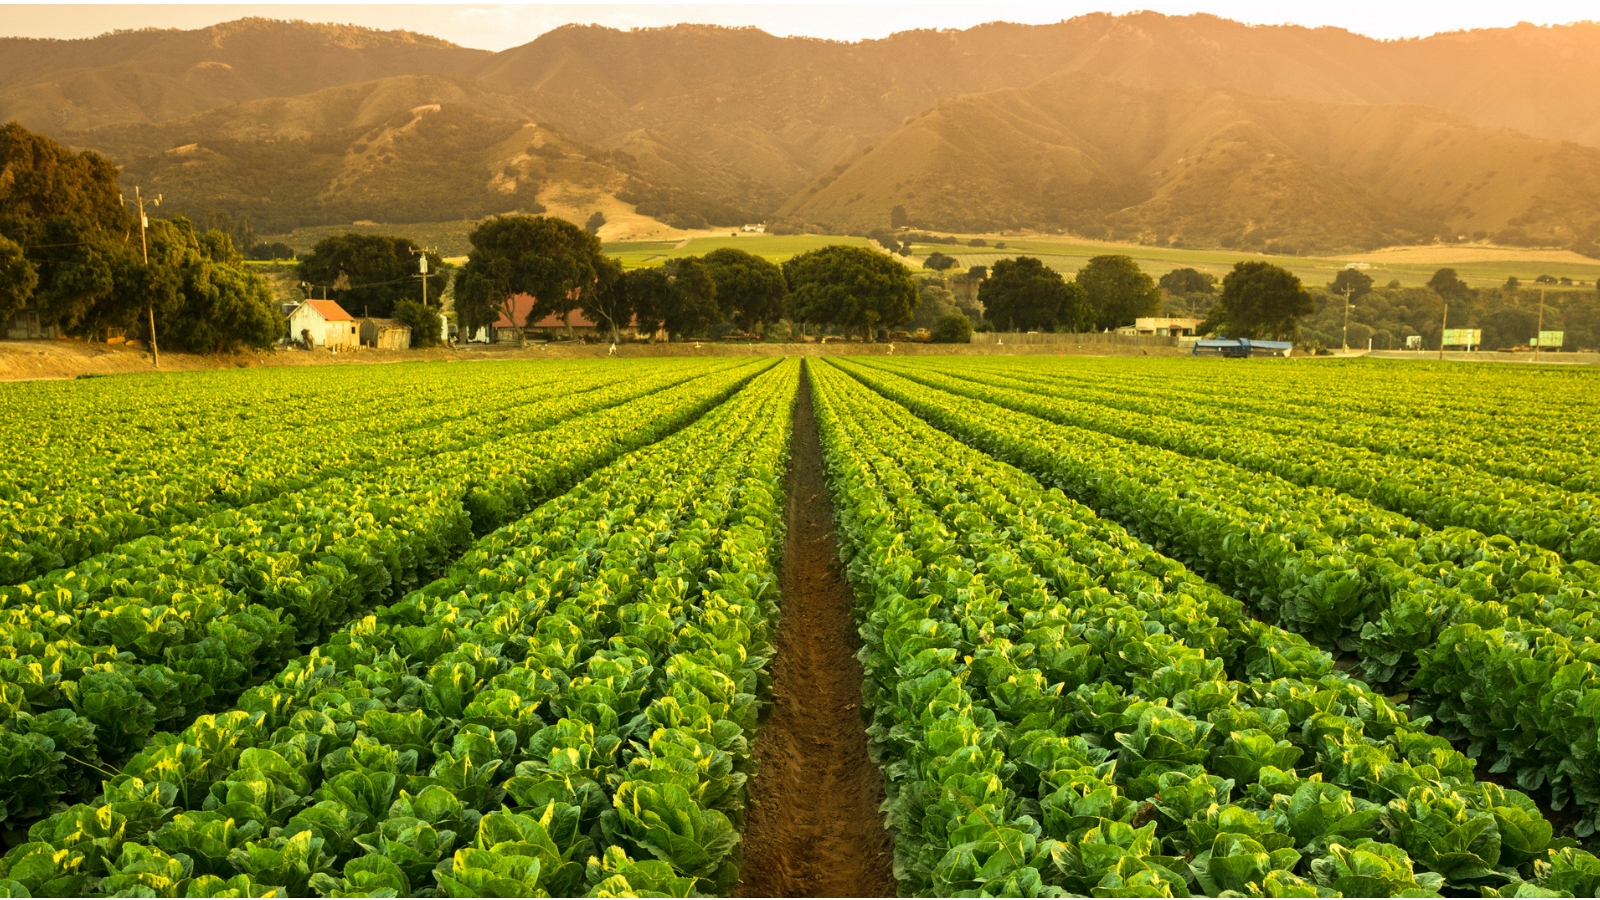
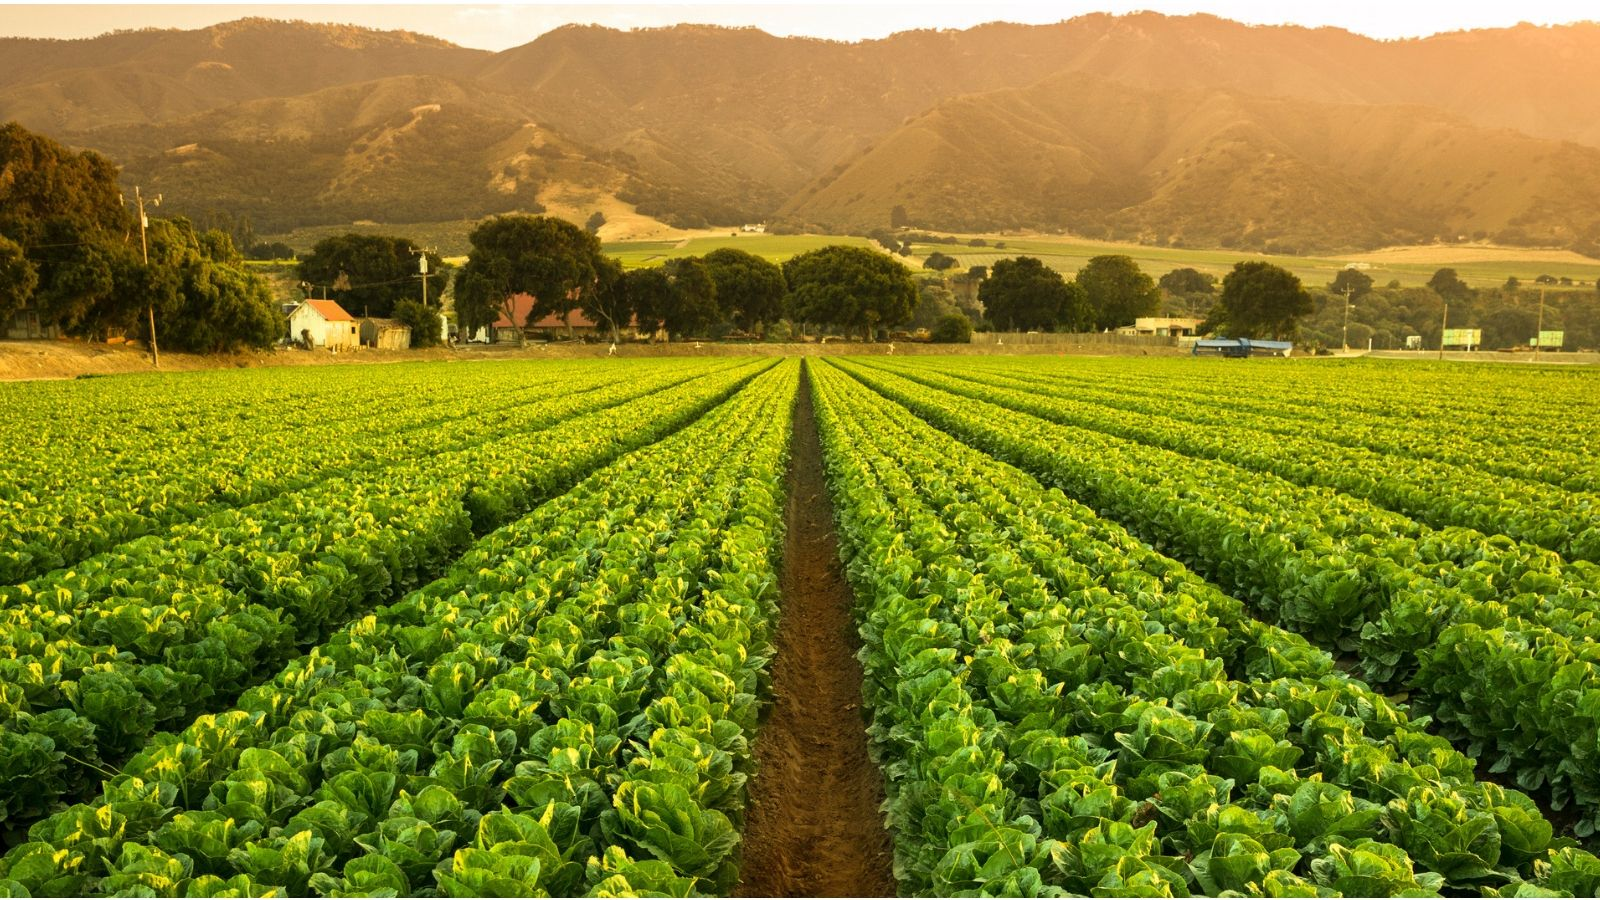
Main layouts fixed

Changed region(s): [[0.125, 0.9956, 0.1875, 1.0], [0.375, 0.9956, 0.4062, 1.0]]

diff --git a/public/css/styles.css b/public/css/styles.css
@@ -1,121 +1,158 @@
+/* General Reset */
 *,
 *::before,
 *::after {
   box-sizing: border-box;
+  margin: 0;
+  padding: 0;
 }
 
-
-/* Reset styles */
+/* Body Styling */
 body {
     font-family: Arial, sans-serif;
-    margin: 0;
-    padding: 0;
     background: white;
     display: flex;
     flex-direction: column;
     height: 100vh;
 }
 
-/* Container for hero + content */
+/* Main Container */
 .content-container {
-    flex: 1; /* Take remaining space */
+    flex: 1;
     display: flex;
-    flex-direction: column; /* Stack hero above content */
+    flex-direction: column;
 }
 
-/* Hero section */
+/* Hero Section */
 .hero {
     width: 100%;
     height: 350px;
     background-color: #037f45fa;
     display: flex;
     align-items: center;
-    justify-content: space-between; /* Pushes text left, image right */
+    justify-content: space-between;
     color: white;
-    padding-left: 20px; /* Ensures content does not overflow */
+    padding: 0 100px; /* Adds equal left-right spacing */
     text-align: left;
-    overflow: hidden; /* Ensures nothing spills outside */
+    overflow: hidden;
 }
 
-/* Image container on the right */
-.hero-image {
-    height: 100%; /* Ensures it fills the full height */
-    display: flex;
-    align-items: center;
-    justify-content: right; /* Pushes the image fully to the right */
-    margin: 0; /* Removes any unwanted spacing */
-    padding-right: 0; /* Ensures no padding issues */
-}
-
-/* Image styling */
-.hero-image img {
-    height: 100%; /* Ensures it fully fits within hero height */
-    width: auto; /* Keeps aspect ratio */
-    object-fit: cover;
-    display: block; /* Ensures no extra spacing issues */
-    max-width: 100%; /* Prevents overflow */
-}
-
-
-/* Hero content on the left */
+/* Hero Content */
 .hero-content {
-    max-width: 60%; /* Adjust as needed */
+    max-width: 60%;
     font-size: 24px;
 }
 
-/* Main content area */
-.content {
-    width:100%; /* Take remaining space */
-    padding-left: 20px;
-    background: white;
-    overflow-y: auto; /* Enable scrolling */
+/* Hero Image */
+.hero-image {
+    height: 100%;
+    display: flex;
+    align-items: center;
+    justify-content: flex-end;
 }
 
-/* Navbar */
+.hero-image img {
+    height: 100%;
+    width: 100%;  /* Ensures full width */
+    object-fit: cover; /* Ensures it covers the hero container */
+    display: block;
+}
+
+
+/* Main Content */
+.content {
+    width: 100%;
+    padding: 50px 100px; /* Ensures left and right spacing */
+}
+
+/* Navigation Bar */
 .navbar {
     display: flex;
-    justify-content: center; /* Center content horizontally */
-    align-items: center; /* Center content vertically */
-    background-color: white; /* Set background color */
-    width: 100%; /* Full width */
-    padding: 10px 0; /* Add padding for better spacing */
-    box-shadow: 0 2px 5px rgba(0, 0, 0, 0.1); /* Subtle shadow for a clean look */
+    justify-content: center;
+    align-items: center;
+    background-color: white;
+    width: 100%;
+    padding: 10px 0;
+    box-shadow: 0 2px 5px rgba(0, 0, 0, 0.1);
 }
 
-/* Navbar links */
 .navbar-nav {
     display: flex;
-    gap: 20px; /* Add spacing between items */
-    list-style: none; /* Remove default list styles */
-    margin: 0;
-    padding: 0;
-    width: 100%; /* Make it span the full width */
-    justify-content: space-around; /* Distribute links evenly */
+    gap: 20px;
+    list-style: none;
+    justify-content: space-around;
+    width: 100%;
 }
 
 .nav-item {
-    flex-grow: 1; /* Make items stretch evenly */
+    flex-grow: 1;
     text-align: center;
 }
 
 .nav-link {
-    text-decoration: none; /* Remove underline */
-    color: #000; /* Set text color */
+    text-decoration: none;
+    color: #000;
     font-weight: bold;
-    font-size: 16px; /* Adjust font size for better readability */
-    padding: 5px 10px; /* Add padding inside links */
-    border-radius: 5px; /* Slight rounding for a polished look */
+    font-size: 16px;
+    padding: 5px 10px;
+    border-radius: 5px;
 }
 
 .nav-link:hover {
-    background-color: #f0f0f0; /* Subtle background on hover */
-    color: #007BFF; /* Highlight link color on hover */
+    background-color: #f0f0f0;
+    color: #007BFF;
 }
 
-/* Sidebar container */
+/* Sidebar */
 .sidebar-container {
     display: flex;
-    flex-direction: column; /* Stack items vertically */
-    align-items: flex-start; /* Align to the left */
-    width: 100px; /* Same width as the sidebar */
+    flex-direction: column;
+    align-items: flex-start;
+    width: 100px;
+}
+
+/* Content Section Layout */
+.content-section {
+    display: flex;
+    align-items: center;
+    justify-content: space-between;
+    padding: 20px 100px; /* Adds spacing */
+    width: 100%;
+}
+
+/* Reverse Layout */
+.content-section.reverse {
+    flex-direction: row-reverse;
+}
+
+/* Text Content */
+.text-content {
+    width: 45%;
+    text-align: justify;
+    font-size: 18px;
+}
+
+/* Reverse Text Alignment */
+.content-section.reverse .text-content {
+    text-align: justify;
+}
+
+/* Image Content */
+.image-content {
+    width: 45%;
+    text-align: right;
+}
+
+/* Image Styling */
+.image-content img {
+    width: 100%;
+    max-width: 300px; /* Controls max width */
+    height: auto;
+    max-height: 300px; /* Prevents excessive height */
+    object-fit: contain;
+}
+
+/* Reverse Image Alignment */
+.content-section.reverse .image-content {
+    text-align: justify;
 }
